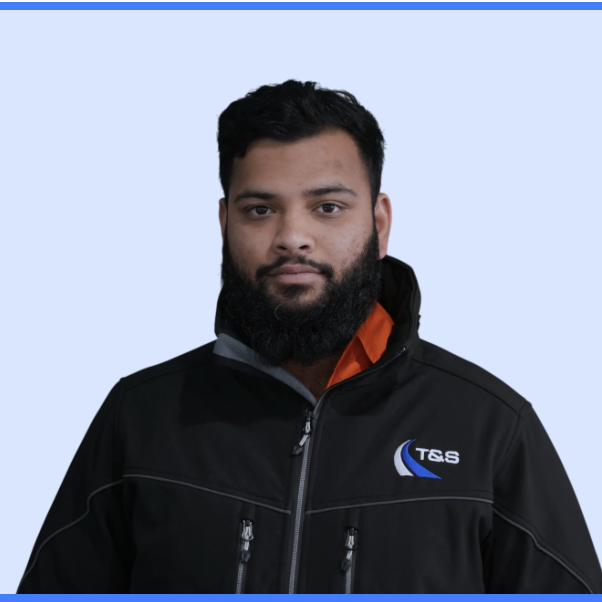
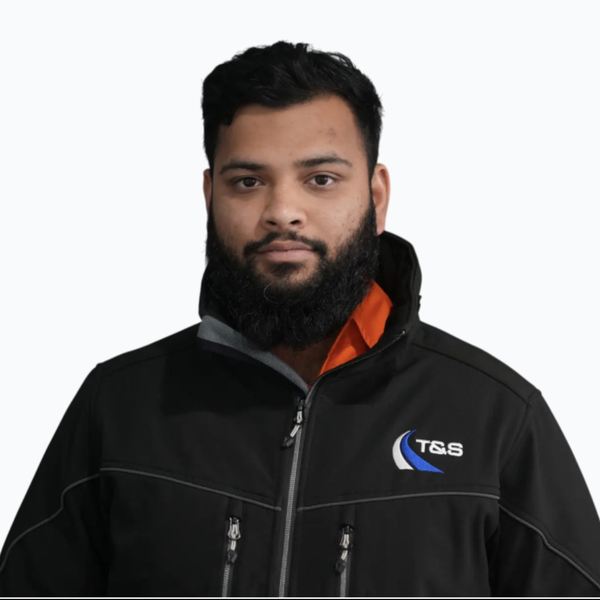
Replace founder photos with new high-res centered headshots
User-provided photos: properly centered faces, near-transparent
backgrounds, high resolution. Cropped to 600x600 squares from
top (faces at top of frame). Removed CSS object-position hack
since new images are naturally centered.

diff --git a/induction-slides.js b/induction-slides.js
@@ -8,7 +8,7 @@ const employeeGuideSlides = [
   {
     title: 'T&S Employee Guide',
     subtitle: '"A Safe Way Home"',
-    content: '<div class="text-center"><img src="/images/slides/ts-logo.png?v=5" alt="T&S Logo" style="height:120px;margin:0 auto 1.5rem;display:block;"><p class="text-2xl" style="color:var(--ts-cyan);margin-bottom:0.5rem;">Module 1 — Company Overview</p><p class="text-lg" style="color:var(--text-secondary);">Welcome to T&S Traffic Control</p></div>',
+    content: '<div class="text-center"><img src="/images/slides/ts-logo.png?v=6" alt="T&S Logo" style="height:120px;margin:0 auto 1.5rem;display:block;"><p class="text-2xl" style="color:var(--ts-cyan);margin-bottom:0.5rem;">Module 1 — Company Overview</p><p class="text-lg" style="color:var(--text-secondary);">Welcome to T&S Traffic Control</p></div>',
     layout: 'title',
     icon: ''
   },
@@ -16,7 +16,7 @@ const employeeGuideSlides = [
   {
     title: 'T&S Mission',
     subtitle: '"A Safe Way Home"',
-    content: '<div style="display:grid;grid-template-columns:1fr 1fr;gap:2rem;align-items:center;"><div><div style="border-left:3px solid var(--cyan);padding-left:16px;margin-bottom:16px;"><p style="font-size:22px;line-height:1.5;color:var(--cyan);font-weight:600;">T&S Traffic Control — "A Safe Way Home."</p></div><p style="color:rgba(255,255,255,0.72);font-size:16px;margin-bottom:16px;">Family-owned since 2021 — raising standards of safety, professionalism, and respect in NSW traffic control.</p><p style="color:rgba(255,255,255,0.72);font-size:16px;">ISO-certified, built to make a difference.</p></div><div style="display:flex;gap:1rem;justify-content:center;align-items:center;flex-wrap:wrap;"><img src="/images/slides/iso-9001.png?v=5" alt="ISO 9001" style="height:100px;border-radius:10px;box-shadow:0 4px 16px rgba(0,0,0,0.4);"><img src="/images/slides/iso-14001.png?v=5" alt="ISO 14001" style="height:100px;border-radius:10px;box-shadow:0 4px 16px rgba(0,0,0,0.4);"><img src="/images/slides/iso-45001.png?v=5" alt="ISO 45001" style="height:100px;border-radius:10px;box-shadow:0 4px 16px rgba(0,0,0,0.4);"></div></div>',
+    content: '<div style="display:grid;grid-template-columns:1fr 1fr;gap:2rem;align-items:center;"><div><div style="border-left:3px solid var(--cyan);padding-left:16px;margin-bottom:16px;"><p style="font-size:22px;line-height:1.5;color:var(--cyan);font-weight:600;">T&S Traffic Control — "A Safe Way Home."</p></div><p style="color:rgba(255,255,255,0.72);font-size:16px;margin-bottom:16px;">Family-owned since 2021 — raising standards of safety, professionalism, and respect in NSW traffic control.</p><p style="color:rgba(255,255,255,0.72);font-size:16px;">ISO-certified, built to make a difference.</p></div><div style="display:flex;gap:1rem;justify-content:center;align-items:center;flex-wrap:wrap;"><img src="/images/slides/iso-9001.png?v=6" alt="ISO 9001" style="height:100px;border-radius:10px;box-shadow:0 4px 16px rgba(0,0,0,0.4);"><img src="/images/slides/iso-14001.png?v=6" alt="ISO 14001" style="height:100px;border-radius:10px;box-shadow:0 4px 16px rgba(0,0,0,0.4);"><img src="/images/slides/iso-45001.png?v=6" alt="ISO 45001" style="height:100px;border-radius:10px;box-shadow:0 4px 16px rgba(0,0,0,0.4);"></div></div>',
     layout: 'content',
     icon: ''
   },
@@ -24,7 +24,7 @@ const employeeGuideSlides = [
   {
     title: 'Who We Are',
     subtitle: '',
-    content: '<div style="max-width:48rem;margin:0 auto;"><p style="font-size:1.2rem;line-height:1.8;margin-bottom:1.5rem;">What began as a small team built on strong values has grown into a trusted traffic control company known for <strong>integrity, precision, and care.</strong></p><p style="font-size:15px;line-height:1.7;color:rgba(255,255,255,0.72);margin-bottom:1.5rem;">We founded T&S to raise the standard of safety and respect in our industry — not just to offer a service.</p><div style="background:linear-gradient(135deg,#1e3a5f,#2563eb);border-radius:1rem;padding:1.5rem;color:white;"><p style="font-size:1.1rem;line-height:1.7;">Our mission is to <strong>protect lives</strong> and create a workplace where every team member can <strong>grow, lead, and deliver safe outcomes</strong> for the public, workers, and pedestrians.</p></div><div style="display:flex;gap:1.5rem;justify-content:center;margin-top:1.5rem;align-items:center;"><img src="/images/slides/lgp-approved.png?v=5" alt="LGP Approved" style="height:50px;"><img src="/images/slides/tmaa.png?v=5" alt="TMAA" style="height:40px;"></div></div>',
+    content: '<div style="max-width:48rem;margin:0 auto;"><p style="font-size:1.2rem;line-height:1.8;margin-bottom:1.5rem;">What began as a small team built on strong values has grown into a trusted traffic control company known for <strong>integrity, precision, and care.</strong></p><p style="font-size:15px;line-height:1.7;color:rgba(255,255,255,0.72);margin-bottom:1.5rem;">We founded T&S to raise the standard of safety and respect in our industry — not just to offer a service.</p><div style="background:linear-gradient(135deg,#1e3a5f,#2563eb);border-radius:1rem;padding:1.5rem;color:white;"><p style="font-size:1.1rem;line-height:1.7;">Our mission is to <strong>protect lives</strong> and create a workplace where every team member can <strong>grow, lead, and deliver safe outcomes</strong> for the public, workers, and pedestrians.</p></div><div style="display:flex;gap:1.5rem;justify-content:center;margin-top:1.5rem;align-items:center;"><img src="/images/slides/lgp-approved.png?v=6" alt="LGP Approved" style="height:50px;"><img src="/images/slides/tmaa.png?v=6" alt="TMAA" style="height:40px;"></div></div>',
     layout: 'content',
     icon: ''
   },
@@ -32,7 +32,7 @@ const employeeGuideSlides = [
   {
     title: 'Meet Our Founders',
     subtitle: 'Taj & Saadat',
-    content: '<div class="founders-grid"><div class="founders-photos"><div style="text-align:center;"><div class="founder-circle cyan"><img src="/images/slides/founder-taj-circle.png?v=5" alt="Taj"></div><p style="font-weight:700;font-size:15px;color:white;">Taj</p></div><div style="text-align:center;"><div class="founder-circle orange"><img src="/images/slides/founder-saadat-circle.png?v=5" alt="Saadat"></div><p style="font-weight:700;font-size:15px;color:white;">Saadat</p></div></div><div class="founders-text"><p style="font-size:15px;line-height:1.7;margin-bottom:0.75rem;color:rgba(255,255,255,0.72);">Lifelong friends turned business partners, they founded the company with a shared vision — to lift the standard of safety, professionalism, and opportunity.</p><p style="font-size:14px;color:rgba(255,255,255,0.55);margin-bottom:0.75rem;line-height:1.7;">From humble beginnings, they built T&S through hard work, trust, and a deep sense of responsibility to both clients and their team.</p><p style="font-size:14px;color:rgba(255,255,255,0.55);line-height:1.7;">Their leadership goes beyond operations — they\'re dedicated to building a workplace that <strong>develops, supports, and empowers</strong> people to grow, lead, and succeed.</p></div></div>',
+    content: '<div class="founders-grid"><div class="founders-photos"><div style="text-align:center;"><div class="founder-circle cyan"><img src="/images/slides/founder-taj-circle.png?v=6" alt="Taj"></div><p style="font-weight:700;font-size:15px;color:white;">Taj</p></div><div style="text-align:center;"><div class="founder-circle orange"><img src="/images/slides/founder-saadat-circle.png?v=6" alt="Saadat"></div><p style="font-weight:700;font-size:15px;color:white;">Saadat</p></div></div><div class="founders-text"><p style="font-size:15px;line-height:1.7;margin-bottom:0.75rem;color:rgba(255,255,255,0.72);">Lifelong friends turned business partners, they founded the company with a shared vision — to lift the standard of safety, professionalism, and opportunity.</p><p style="font-size:14px;color:rgba(255,255,255,0.55);margin-bottom:0.75rem;line-height:1.7;">From humble beginnings, they built T&S through hard work, trust, and a deep sense of responsibility to both clients and their team.</p><p style="font-size:14px;color:rgba(255,255,255,0.55);line-height:1.7;">Their leadership goes beyond operations — they\'re dedicated to building a workplace that <strong>develops, supports, and empowers</strong> people to grow, lead, and succeed.</p></div></div>',
     layout: 'content',
     icon: ''
   },
@@ -40,7 +40,7 @@ const employeeGuideSlides = [
   {
     title: 'What Has Our Team Accomplished?',
     subtitle: '',
-    content: '<div style="display:grid;grid-template-columns:1fr 1fr;gap:2rem;align-items:start;"><div class="project-list"><div class="proj-item"><p class="proj-client">Daracon</p><p class="proj-desc">Richmond Rd Road Widening Works</p></div><div class="proj-item"><p class="proj-client">Daracon</p><p class="proj-desc">Stoney Creek Rd Road Widening Works</p></div><div class="proj-item"><p class="proj-client">Abergeldie</p><p class="proj-desc">Road Widening Hill Rd</p></div><div class="proj-item"><p class="proj-client">Axial Construction</p><p class="proj-desc">Wellington Rural Works / Service Station Upgrades</p></div><div class="proj-item"><p class="proj-client">Axial Construction</p><p class="proj-desc">Wallendbeen Road Pavement Upgrade</p></div><div class="proj-item"><p class="proj-client">TQM</p><p class="proj-desc">Wentworth Avenue Hotel Construction Traffic Management</p></div><div class="proj-item"><p class="proj-client">QMC</p><p class="proj-desc">Concord Hospital Roundabout & Stormwater Upgrade</p></div></div><div><img src="/images/slides/projects-collage.png?v=5" alt="T&S Projects" style="width:100%;max-height:450px;object-fit:contain;border-radius:12px;box-shadow:0 8px 32px rgba(0,0,0,0.5);"></div></div>',
+    content: '<div style="display:grid;grid-template-columns:1fr 1fr;gap:2rem;align-items:start;"><div class="project-list"><div class="proj-item"><p class="proj-client">Daracon</p><p class="proj-desc">Richmond Rd Road Widening Works</p></div><div class="proj-item"><p class="proj-client">Daracon</p><p class="proj-desc">Stoney Creek Rd Road Widening Works</p></div><div class="proj-item"><p class="proj-client">Abergeldie</p><p class="proj-desc">Road Widening Hill Rd</p></div><div class="proj-item"><p class="proj-client">Axial Construction</p><p class="proj-desc">Wellington Rural Works / Service Station Upgrades</p></div><div class="proj-item"><p class="proj-client">Axial Construction</p><p class="proj-desc">Wallendbeen Road Pavement Upgrade</p></div><div class="proj-item"><p class="proj-client">TQM</p><p class="proj-desc">Wentworth Avenue Hotel Construction Traffic Management</p></div><div class="proj-item"><p class="proj-client">QMC</p><p class="proj-desc">Concord Hospital Roundabout & Stormwater Upgrade</p></div></div><div><img src="/images/slides/projects-collage.png?v=6" alt="T&S Projects" style="width:100%;max-height:450px;object-fit:contain;border-radius:12px;box-shadow:0 8px 32px rgba(0,0,0,0.5);"></div></div>',
     layout: 'content',
     icon: ''
   },
@@ -86,7 +86,7 @@ const employeeGuideSlides = [
   {
     title: 'Wear the Correct PPE Every Time!',
     subtitle: '',
-    content: '<div style="text-align:center;"><p style="font-size:16px;color:rgba(255,255,255,0.72);margin-bottom:1.5rem;">PPE protects you from traffic, machinery and weather — it\'s your <strong style="font-weight:600;">last line of defence.</strong><br>It is a <strong style="font-weight:600;">legal requirement</strong> under NSW WHS regulations.</p><div class="ppe-grid"><div class="ppe-item"><div class="ppe-slot"><img src="/images/slides/hard-hat.png?v=5" alt="Hard Hat" class="ppe-img"></div><p class="ppe-label">Hard Hat</p><p class="ppe-sub">All job sites</p></div><div class="ppe-item"><div class="ppe-slot"><img src="/images/slides/hivis-jacket.png?v=5" alt="Hi-Vis" class="ppe-img"></div><p class="ppe-label">Hi-Vis Clothing</p><p class="ppe-sub">Class D/N day & night</p></div><div class="ppe-item"><div class="ppe-slot"><img src="/images/slides/hivis-pants-navy.png?v=5" alt="Pants" class="ppe-img"></div><p class="ppe-label">Hi-Vis Pants</p><p class="ppe-sub">Reflective tape</p></div><div class="ppe-item"><div class="ppe-slot"><img src="/images/slides/wand-baton.png?v=5" alt="Wand" class="ppe-img"></div><p class="ppe-label">Wand / Baton</p><p class="ppe-sub">Night work</p></div><div class="ppe-item"><div class="ppe-slot"><img src="/images/slides/two-way-radio.png?v=5" alt="Radio" class="ppe-img"></div><p class="ppe-label">Two-Way Radio</p><p class="ppe-sub">Communication</p></div></div></div>',
+    content: '<div style="text-align:center;"><p style="font-size:16px;color:rgba(255,255,255,0.72);margin-bottom:1.5rem;">PPE protects you from traffic, machinery and weather — it\'s your <strong style="font-weight:600;">last line of defence.</strong><br>It is a <strong style="font-weight:600;">legal requirement</strong> under NSW WHS regulations.</p><div class="ppe-grid"><div class="ppe-item"><div class="ppe-slot"><img src="/images/slides/hard-hat.png?v=6" alt="Hard Hat" class="ppe-img"></div><p class="ppe-label">Hard Hat</p><p class="ppe-sub">All job sites</p></div><div class="ppe-item"><div class="ppe-slot"><img src="/images/slides/hivis-jacket.png?v=6" alt="Hi-Vis" class="ppe-img"></div><p class="ppe-label">Hi-Vis Clothing</p><p class="ppe-sub">Class D/N day & night</p></div><div class="ppe-item"><div class="ppe-slot"><img src="/images/slides/hivis-pants-navy.png?v=6" alt="Pants" class="ppe-img"></div><p class="ppe-label">Hi-Vis Pants</p><p class="ppe-sub">Reflective tape</p></div><div class="ppe-item"><div class="ppe-slot"><img src="/images/slides/wand-baton.png?v=6" alt="Wand" class="ppe-img"></div><p class="ppe-label">Wand / Baton</p><p class="ppe-sub">Night work</p></div><div class="ppe-item"><div class="ppe-slot"><img src="/images/slides/two-way-radio.png?v=6" alt="Radio" class="ppe-img"></div><p class="ppe-label">Two-Way Radio</p><p class="ppe-sub">Communication</p></div></div></div>',
     layout: 'content',
     icon: ''
   },
@@ -113,7 +113,7 @@ const employeeGuideSlides = [
   {
     title: 'Allocations & Job Site Information',
     subtitle: '',
-    content: '<div style="max-width:48rem;margin:0 auto;"><div style="text-align:center;margin-bottom:1.5rem;"><div style="display:inline-block;background:rgba(255,255,255,0.04);border-radius:10px;padding:12px 20px;"><img src="/images/slides/traffio-logo.png?v=5" alt="Traffio" style="height:45px;display:inline-block;"></div></div><p style="font-size:15px;line-height:1.7;color:rgba(255,255,255,0.72);text-align:center;margin-bottom:2rem;">Traffio is the app we use to allocate and roster all employees. It provides information on the job site, resources, location, TGS, ROL, and all safety documents and procedures required on site.</p><div style="display:grid;grid-template-columns:repeat(2,1fr);gap:0.75rem;"><div style="background:rgba(255,255,255,0.04);border:1px solid rgba(255,255,255,0.08);border-radius:8px;padding:14px 16px;display:flex;align-items:center;gap:10px;"><span style="color:var(--cyan);font-size:8px;">&#9679;</span><p style="font-weight:600;font-size:15px;">All employees receive login details to their email</p></div><div style="background:rgba(255,255,255,0.04);border:1px solid rgba(255,255,255,0.08);border-radius:8px;padding:14px 16px;display:flex;align-items:center;gap:10px;"><span style="color:var(--cyan);font-size:8px;">&#9679;</span><p style="font-weight:600;font-size:15px;">You will receive job allocations for the following day</p></div><div style="background:rgba(255,255,255,0.04);border:1px solid rgba(255,255,255,0.08);border-radius:8px;padding:14px 16px;display:flex;align-items:center;gap:10px;"><span style="color:var(--cyan);font-size:8px;">&#9679;</span><p style="font-weight:600;font-size:15px;">You must accept or reject the shift. If rejected, notify your allocator</p></div><div style="background:rgba(255,255,255,0.04);border:1px solid rgba(255,255,255,0.08);border-left:3px solid var(--cyan);border-radius:8px;padding:14px 16px;display:flex;align-items:center;gap:10px;"><span style="color:var(--cyan);font-size:8px;">&#9679;</span><p style="font-weight:700;font-size:15px;color:var(--cyan);">ALL employees must have notifications ON!</p></div></div></div>',
+    content: '<div style="max-width:48rem;margin:0 auto;"><div style="text-align:center;margin-bottom:1.5rem;"><div style="display:inline-block;background:rgba(255,255,255,0.04);border-radius:10px;padding:12px 20px;"><img src="/images/slides/traffio-logo.png?v=6" alt="Traffio" style="height:45px;display:inline-block;"></div></div><p style="font-size:15px;line-height:1.7;color:rgba(255,255,255,0.72);text-align:center;margin-bottom:2rem;">Traffio is the app we use to allocate and roster all employees. It provides information on the job site, resources, location, TGS, ROL, and all safety documents and procedures required on site.</p><div style="display:grid;grid-template-columns:repeat(2,1fr);gap:0.75rem;"><div style="background:rgba(255,255,255,0.04);border:1px solid rgba(255,255,255,0.08);border-radius:8px;padding:14px 16px;display:flex;align-items:center;gap:10px;"><span style="color:var(--cyan);font-size:8px;">&#9679;</span><p style="font-weight:600;font-size:15px;">All employees receive login details to their email</p></div><div style="background:rgba(255,255,255,0.04);border:1px solid rgba(255,255,255,0.08);border-radius:8px;padding:14px 16px;display:flex;align-items:center;gap:10px;"><span style="color:var(--cyan);font-size:8px;">&#9679;</span><p style="font-weight:600;font-size:15px;">You will receive job allocations for the following day</p></div><div style="background:rgba(255,255,255,0.04);border:1px solid rgba(255,255,255,0.08);border-radius:8px;padding:14px 16px;display:flex;align-items:center;gap:10px;"><span style="color:var(--cyan);font-size:8px;">&#9679;</span><p style="font-weight:600;font-size:15px;">You must accept or reject the shift. If rejected, notify your allocator</p></div><div style="background:rgba(255,255,255,0.04);border:1px solid rgba(255,255,255,0.08);border-left:3px solid var(--cyan);border-radius:8px;padding:14px 16px;display:flex;align-items:center;gap:10px;"><span style="color:var(--cyan);font-size:8px;">&#9679;</span><p style="font-weight:700;font-size:15px;color:var(--cyan);">ALL employees must have notifications ON!</p></div></div></div>',
     layout: 'content',
     icon: ''
   },
@@ -121,7 +121,7 @@ const employeeGuideSlides = [
   {
     title: 'Using Traffio — Steps 1–3',
     subtitle: 'Receive, Review, Read',
-    content: '<div class="steps-grid"><div class="step-card"><div class="step-label">STEP 1</div><img src="/images/slides/traffio-jobs.png?v=5" alt="Job list" class="step-img"><p class="step-title">Receive Job Request</p><p class="step-desc">Booking time is start time on site</p></div><div class="step-card"><div class="step-label">STEP 2</div><img src="/images/slides/traffio-accept.png?v=5" alt="Accept job" class="step-img"><p class="step-title">Review & Accept Job</p><p class="step-desc">Check details and confirm</p></div><div class="step-card"><div class="step-label">STEP 3</div><img src="/images/slides/traffio-details.png?v=5" alt="Read details" class="step-img"><p class="step-title">Read Description & Contact Crew</p><p class="step-desc">Review all job info</p></div></div>',
+    content: '<div class="steps-grid"><div class="step-card"><div class="step-label">STEP 1</div><img src="/images/slides/traffio-jobs.png?v=6" alt="Job list" class="step-img"><p class="step-title">Receive Job Request</p><p class="step-desc">Booking time is start time on site</p></div><div class="step-card"><div class="step-label">STEP 2</div><img src="/images/slides/traffio-accept.png?v=6" alt="Accept job" class="step-img"><p class="step-title">Review & Accept Job</p><p class="step-desc">Check details and confirm</p></div><div class="step-card"><div class="step-label">STEP 3</div><img src="/images/slides/traffio-details.png?v=6" alt="Read details" class="step-img"><p class="step-title">Read Description & Contact Crew</p><p class="step-desc">Review all job info</p></div></div>',
     layout: 'split',
     icon: ''
   },
@@ -129,7 +129,7 @@ const employeeGuideSlides = [
   {
     title: 'Using Traffio — Steps 4–6',
     subtitle: 'Docs, Checklists, Timesheet',
-    content: '<div class="steps-grid"><div class="step-card"><div class="step-label">STEP 4</div><img src="/images/slides/traffio-docs.png?v=5" alt="Site docs" class="step-img"><p class="step-title">Review All Site Docs</p><p class="step-desc">TGS, ROL, safety documents</p></div><div class="step-card"><div class="step-label">STEP 5</div><img src="/images/slides/traffio-forms-tab.png?v=5" alt="Checklists" class="step-img"><p class="step-title">Fill Checklist Forms</p><p class="step-desc">Complete during every job</p></div><div class="step-card"><div class="step-label">STEP 6</div><img src="/images/slides/traffio-timesheet.png?v=5" alt="Timesheet" class="step-img"><p class="step-title">Submit Signed Timesheet</p><p class="step-desc step-desc-red">Client + Team Leader MUST sign timesheet!</p></div></div>',
+    content: '<div class="steps-grid"><div class="step-card"><div class="step-label">STEP 4</div><img src="/images/slides/traffio-docs.png?v=6" alt="Site docs" class="step-img"><p class="step-title">Review All Site Docs</p><p class="step-desc">TGS, ROL, safety documents</p></div><div class="step-card"><div class="step-label">STEP 5</div><img src="/images/slides/traffio-forms-tab.png?v=6" alt="Checklists" class="step-img"><p class="step-title">Fill Checklist Forms</p><p class="step-desc">Complete during every job</p></div><div class="step-card"><div class="step-label">STEP 6</div><img src="/images/slides/traffio-timesheet.png?v=6" alt="Timesheet" class="step-img"><p class="step-title">Submit Signed Timesheet</p><p class="step-desc step-desc-red">Client + Team Leader MUST sign timesheet!</p></div></div>',
     layout: 'split',
     icon: ''
   },
@@ -137,7 +137,7 @@ const employeeGuideSlides = [
   {
     title: 'Accessible Forms',
     subtitle: '',
-    content: '<div style="display:grid;grid-template-columns:1fr 1fr;gap:2rem;align-items:center;"><div><p style="font-size:15px;line-height:1.7;color:rgba(255,255,255,0.72);margin-bottom:1.5rem;">On Traffio, tap the <strong>"Forms"</strong> tab at the bottom of the screen. Always submit a form and follow it up with your supervisor via phone call.</p><div class="form-list"><div class="form-row"><span class="form-ico" style="color:var(--cyan);"><svg width="18" height="18" viewBox="0 0 24 24" fill="none" stroke="currentColor" stroke-width="2" stroke-linecap="round" stroke-linejoin="round"><rect x="3" y="4" width="18" height="18" rx="2"/><path d="M16 2v4M8 2v4M3 10h18"/></svg></span><span class="form-label">Leave Request</span></div><div class="form-row"><span class="form-ico" style="color:#fbbf24;"><svg width="18" height="18" viewBox="0 0 24 24" fill="none" stroke="currentColor" stroke-width="2" stroke-linecap="round" stroke-linejoin="round"><path d="M10.29 3.86L1.82 18a2 2 0 001.71 3h16.94a2 2 0 001.71-3L13.71 3.86a2 2 0 00-3.42 0z"/><line x1="12" y1="9" x2="12" y2="13"/><line x1="12" y1="17" x2="12.01" y2="17"/></svg></span><span class="form-label">Near Miss Investigation Form</span></div><div class="form-row"><span class="form-ico" style="color:#f87171;"><svg width="18" height="18" viewBox="0 0 24 24" fill="none" stroke="currentColor" stroke-width="2" stroke-linecap="round" stroke-linejoin="round"><circle cx="12" cy="12" r="10"/><line x1="12" y1="8" x2="12" y2="12"/><line x1="12" y1="16" x2="12.01" y2="16"/></svg></span><span class="form-label">On-Site Incident Report Form</span></div><div class="form-row"><span class="form-ico" style="color:#60a5fa;"><svg width="18" height="18" viewBox="0 0 24 24" fill="none" stroke="currentColor" stroke-width="2" stroke-linecap="round" stroke-linejoin="round"><rect x="1" y="3" width="15" height="13"/><polygon points="16 8 20 8 23 11 23 16 16 16 16 8"/><circle cx="5.5" cy="18.5" r="2.5"/><circle cx="18.5" cy="18.5" r="2.5"/></svg></span><span class="form-label">Vehicle Incident Report Form</span></div><div class="form-row"><span class="form-ico" style="color:#a78bfa;"><svg width="18" height="18" viewBox="0 0 24 24" fill="none" stroke="currentColor" stroke-width="2" stroke-linecap="round" stroke-linejoin="round"><path d="M23 19a2 2 0 01-2 2H3a2 2 0 01-2-2V8a2 2 0 012-2h4l2-3h6l2 3h4a2 2 0 012 2z"/><circle cx="12" cy="13" r="4"/></svg></span><span class="form-label">Site / Vehicle Equipment Count</span></div></div></div><div style="text-align:center;"><img src="/images/slides/traffio-forms.png?v=5" alt="Forms Tab" style="max-height:400px;border-radius:12px;border:1px solid rgba(255,255,255,0.08);box-shadow:0 8px 32px rgba(0,0,0,0.6);"></div></div>',
+    content: '<div style="display:grid;grid-template-columns:1fr 1fr;gap:2rem;align-items:center;"><div><p style="font-size:15px;line-height:1.7;color:rgba(255,255,255,0.72);margin-bottom:1.5rem;">On Traffio, tap the <strong>"Forms"</strong> tab at the bottom of the screen. Always submit a form and follow it up with your supervisor via phone call.</p><div class="form-list"><div class="form-row"><span class="form-ico" style="color:var(--cyan);"><svg width="18" height="18" viewBox="0 0 24 24" fill="none" stroke="currentColor" stroke-width="2" stroke-linecap="round" stroke-linejoin="round"><rect x="3" y="4" width="18" height="18" rx="2"/><path d="M16 2v4M8 2v4M3 10h18"/></svg></span><span class="form-label">Leave Request</span></div><div class="form-row"><span class="form-ico" style="color:#fbbf24;"><svg width="18" height="18" viewBox="0 0 24 24" fill="none" stroke="currentColor" stroke-width="2" stroke-linecap="round" stroke-linejoin="round"><path d="M10.29 3.86L1.82 18a2 2 0 001.71 3h16.94a2 2 0 001.71-3L13.71 3.86a2 2 0 00-3.42 0z"/><line x1="12" y1="9" x2="12" y2="13"/><line x1="12" y1="17" x2="12.01" y2="17"/></svg></span><span class="form-label">Near Miss Investigation Form</span></div><div class="form-row"><span class="form-ico" style="color:#f87171;"><svg width="18" height="18" viewBox="0 0 24 24" fill="none" stroke="currentColor" stroke-width="2" stroke-linecap="round" stroke-linejoin="round"><circle cx="12" cy="12" r="10"/><line x1="12" y1="8" x2="12" y2="12"/><line x1="12" y1="16" x2="12.01" y2="16"/></svg></span><span class="form-label">On-Site Incident Report Form</span></div><div class="form-row"><span class="form-ico" style="color:#60a5fa;"><svg width="18" height="18" viewBox="0 0 24 24" fill="none" stroke="currentColor" stroke-width="2" stroke-linecap="round" stroke-linejoin="round"><rect x="1" y="3" width="15" height="13"/><polygon points="16 8 20 8 23 11 23 16 16 16 16 8"/><circle cx="5.5" cy="18.5" r="2.5"/><circle cx="18.5" cy="18.5" r="2.5"/></svg></span><span class="form-label">Vehicle Incident Report Form</span></div><div class="form-row"><span class="form-ico" style="color:#a78bfa;"><svg width="18" height="18" viewBox="0 0 24 24" fill="none" stroke="currentColor" stroke-width="2" stroke-linecap="round" stroke-linejoin="round"><path d="M23 19a2 2 0 01-2 2H3a2 2 0 01-2-2V8a2 2 0 012-2h4l2-3h6l2 3h4a2 2 0 012 2z"/><circle cx="12" cy="13" r="4"/></svg></span><span class="form-label">Site / Vehicle Equipment Count</span></div></div></div><div style="text-align:center;"><img src="/images/slides/traffio-forms.png?v=6" alt="Forms Tab" style="max-height:400px;border-radius:12px;border:1px solid rgba(255,255,255,0.08);box-shadow:0 8px 32px rgba(0,0,0,0.6);"></div></div>',
     layout: 'content',
     icon: ''
   },
@@ -145,7 +145,7 @@ const employeeGuideSlides = [
   {
     title: 'Leave Days',
     subtitle: '',
-    content: '<div style="display:grid;grid-template-columns:1fr 1fr;gap:2.5rem;align-items:center;"><div><p style="font-size:15px;line-height:1.7;color:rgba(255,255,255,0.72);margin-bottom:1.5rem;">Open the Traffio app and tap the <strong>Leave</strong> tab at the bottom of the screen.</p><div class="leave-points"><div class="leave-point"><span class="leave-num">1</span><div class="leave-body"><p class="leave-head">Submit Your Request</p><p class="leave-desc">Enter any leave days you wish to request under the Leave tab.</p></div></div><div class="leave-point"><span class="leave-num">2</span><div class="leave-body"><p class="leave-head">Give Notice</p><p class="leave-desc">Requests must be submitted at least <strong>2 days before</strong> your intended leave date.</p></div></div><div class="leave-point"><span class="leave-num">3</span><div class="leave-body"><p class="leave-head">Await Approval</p><p class="leave-desc">Requests are reviewed and approved by an administrator.</p></div></div></div></div><div style="text-align:center;"><img src="/images/slides/traffio-leave.png?v=5" alt="Leave Calendar" style="max-height:400px;border-radius:12px;border:1px solid rgba(255,255,255,0.08);box-shadow:0 8px 32px rgba(0,0,0,0.6);"></div></div>',
+    content: '<div style="display:grid;grid-template-columns:1fr 1fr;gap:2.5rem;align-items:center;"><div><p style="font-size:15px;line-height:1.7;color:rgba(255,255,255,0.72);margin-bottom:1.5rem;">Open the Traffio app and tap the <strong>Leave</strong> tab at the bottom of the screen.</p><div class="leave-points"><div class="leave-point"><span class="leave-num">1</span><div class="leave-body"><p class="leave-head">Submit Your Request</p><p class="leave-desc">Enter any leave days you wish to request under the Leave tab.</p></div></div><div class="leave-point"><span class="leave-num">2</span><div class="leave-body"><p class="leave-head">Give Notice</p><p class="leave-desc">Requests must be submitted at least <strong>2 days before</strong> your intended leave date.</p></div></div><div class="leave-point"><span class="leave-num">3</span><div class="leave-body"><p class="leave-head">Await Approval</p><p class="leave-desc">Requests are reviewed and approved by an administrator.</p></div></div></div></div><div style="text-align:center;"><img src="/images/slides/traffio-leave.png?v=6" alt="Leave Calendar" style="max-height:400px;border-radius:12px;border:1px solid rgba(255,255,255,0.08);box-shadow:0 8px 32px rgba(0,0,0,0.6);"></div></div>',
     layout: 'content',
     icon: ''
   },
@@ -188,7 +188,7 @@ const employeeGuideSlides = [
   {
     title: 'T&S Vehicle Rules',
     subtitle: '',
-    content: '<div style="display:grid;grid-template-columns:1fr 1fr;gap:2rem;align-items:start;"><div><div style="display:grid;gap:0.55rem;"><div class="form-row"><span class="form-ico" style="color:var(--cyan);"><svg width="18" height="18" viewBox="0 0 24 24" fill="none" stroke="currentColor" stroke-width="2" stroke-linecap="round" stroke-linejoin="round"><path d="M2 20h20"/><path d="M5 20V8l7-5 7 5v12"/></svg></span><span class="form-label">Maximum vehicle height is <strong style="color:var(--cyan);">2.5 metres</strong></span></div><div class="form-row"><span class="form-ico" style="color:var(--cyan);"><svg width="18" height="18" viewBox="0 0 24 24" fill="none" stroke="currentColor" stroke-width="2" stroke-linecap="round" stroke-linejoin="round"><circle cx="12" cy="12" r="10"/><line x1="4.93" y1="4.93" x2="19.07" y2="19.07"/></svg></span><span class="form-label">No parking in car parks or near shops</span></div><div class="form-row"><span class="form-ico" style="color:var(--cyan);"><svg width="18" height="18" viewBox="0 0 24 24" fill="none" stroke="currentColor" stroke-width="2" stroke-linecap="round" stroke-linejoin="round"><rect x="1" y="3" width="15" height="13"/><polygon points="16 8 20 8 23 11 23 16 16 16 16 8"/><circle cx="5.5" cy="18.5" r="2.5"/><circle cx="18.5" cy="18.5" r="2.5"/></svg></span><span class="form-label">Utes must remain on site at all times</span></div><div class="form-row"><span class="form-ico" style="color:var(--cyan);"><svg width="18" height="18" viewBox="0 0 24 24" fill="none" stroke="currentColor" stroke-width="2" stroke-linecap="round" stroke-linejoin="round"><circle cx="12" cy="12" r="10"/><line x1="4.93" y1="4.93" x2="19.07" y2="19.07"/></svg></span><span class="form-label">No eating or smoking inside company vehicles</span></div></div><div class="mp-card" style="margin-top:1rem;border-left:3px solid var(--red);"><div class="mp-card-head"><span class="mp-card-ico"><svg width="14" height="14" viewBox="0 0 24 24" fill="none" stroke="currentColor" stroke-width="2" stroke-linecap="round" stroke-linejoin="round"><path d="M10.29 3.86L1.82 18a2 2 0 001.71 3h16.94a2 2 0 001.71-3L13.71 3.86a2 2 0 00-3.42 0z"/><line x1="12" y1="9" x2="12" y2="13"/><line x1="12" y1="17" x2="12.01" y2="17"/></svg></span><span class="mp-card-title">Accident Liability</span></div><p class="mp-card-desc">Report immediately in Traffio. If driver at fault: vehicle excess <strong style="color:var(--cyan);font-weight:700;">$2,000</strong> (under 25), cage/arrowboard <strong style="color:var(--cyan);font-weight:700;">$1,000</strong> (under 25).</p></div></div><div style="text-align:center;"><img src="/images/slides/ts-ute.png?v=5" alt="T&S Vehicle" style="width:100%;border-radius:12px;margin-bottom:1rem;"><img src="/images/slides/golden-rules.png?v=5" alt="Golden Rules of Safety" style="width:100%;border-radius:12px;overflow:hidden;box-shadow:0 8px 32px rgba(0,0,0,0.5);"></div></div>',
+    content: '<div style="display:grid;grid-template-columns:1fr 1fr;gap:2rem;align-items:start;"><div><div style="display:grid;gap:0.55rem;"><div class="form-row"><span class="form-ico" style="color:var(--cyan);"><svg width="18" height="18" viewBox="0 0 24 24" fill="none" stroke="currentColor" stroke-width="2" stroke-linecap="round" stroke-linejoin="round"><path d="M2 20h20"/><path d="M5 20V8l7-5 7 5v12"/></svg></span><span class="form-label">Maximum vehicle height is <strong style="color:var(--cyan);">2.5 metres</strong></span></div><div class="form-row"><span class="form-ico" style="color:var(--cyan);"><svg width="18" height="18" viewBox="0 0 24 24" fill="none" stroke="currentColor" stroke-width="2" stroke-linecap="round" stroke-linejoin="round"><circle cx="12" cy="12" r="10"/><line x1="4.93" y1="4.93" x2="19.07" y2="19.07"/></svg></span><span class="form-label">No parking in car parks or near shops</span></div><div class="form-row"><span class="form-ico" style="color:var(--cyan);"><svg width="18" height="18" viewBox="0 0 24 24" fill="none" stroke="currentColor" stroke-width="2" stroke-linecap="round" stroke-linejoin="round"><rect x="1" y="3" width="15" height="13"/><polygon points="16 8 20 8 23 11 23 16 16 16 16 8"/><circle cx="5.5" cy="18.5" r="2.5"/><circle cx="18.5" cy="18.5" r="2.5"/></svg></span><span class="form-label">Utes must remain on site at all times</span></div><div class="form-row"><span class="form-ico" style="color:var(--cyan);"><svg width="18" height="18" viewBox="0 0 24 24" fill="none" stroke="currentColor" stroke-width="2" stroke-linecap="round" stroke-linejoin="round"><circle cx="12" cy="12" r="10"/><line x1="4.93" y1="4.93" x2="19.07" y2="19.07"/></svg></span><span class="form-label">No eating or smoking inside company vehicles</span></div></div><div class="mp-card" style="margin-top:1rem;border-left:3px solid var(--red);"><div class="mp-card-head"><span class="mp-card-ico"><svg width="14" height="14" viewBox="0 0 24 24" fill="none" stroke="currentColor" stroke-width="2" stroke-linecap="round" stroke-linejoin="round"><path d="M10.29 3.86L1.82 18a2 2 0 001.71 3h16.94a2 2 0 001.71-3L13.71 3.86a2 2 0 00-3.42 0z"/><line x1="12" y1="9" x2="12" y2="13"/><line x1="12" y1="17" x2="12.01" y2="17"/></svg></span><span class="mp-card-title">Accident Liability</span></div><p class="mp-card-desc">Report immediately in Traffio. If driver at fault: vehicle excess <strong style="color:var(--cyan);font-weight:700;">$2,000</strong> (under 25), cage/arrowboard <strong style="color:var(--cyan);font-weight:700;">$1,000</strong> (under 25).</p></div></div><div style="text-align:center;"><img src="/images/slides/ts-ute.png?v=6" alt="T&S Vehicle" style="width:100%;border-radius:12px;margin-bottom:1rem;"><img src="/images/slides/golden-rules.png?v=6" alt="Golden Rules of Safety" style="width:100%;border-radius:12px;overflow:hidden;box-shadow:0 8px 32px rgba(0,0,0,0.5);"></div></div>',
     layout: 'content',
     icon: ''
   },
